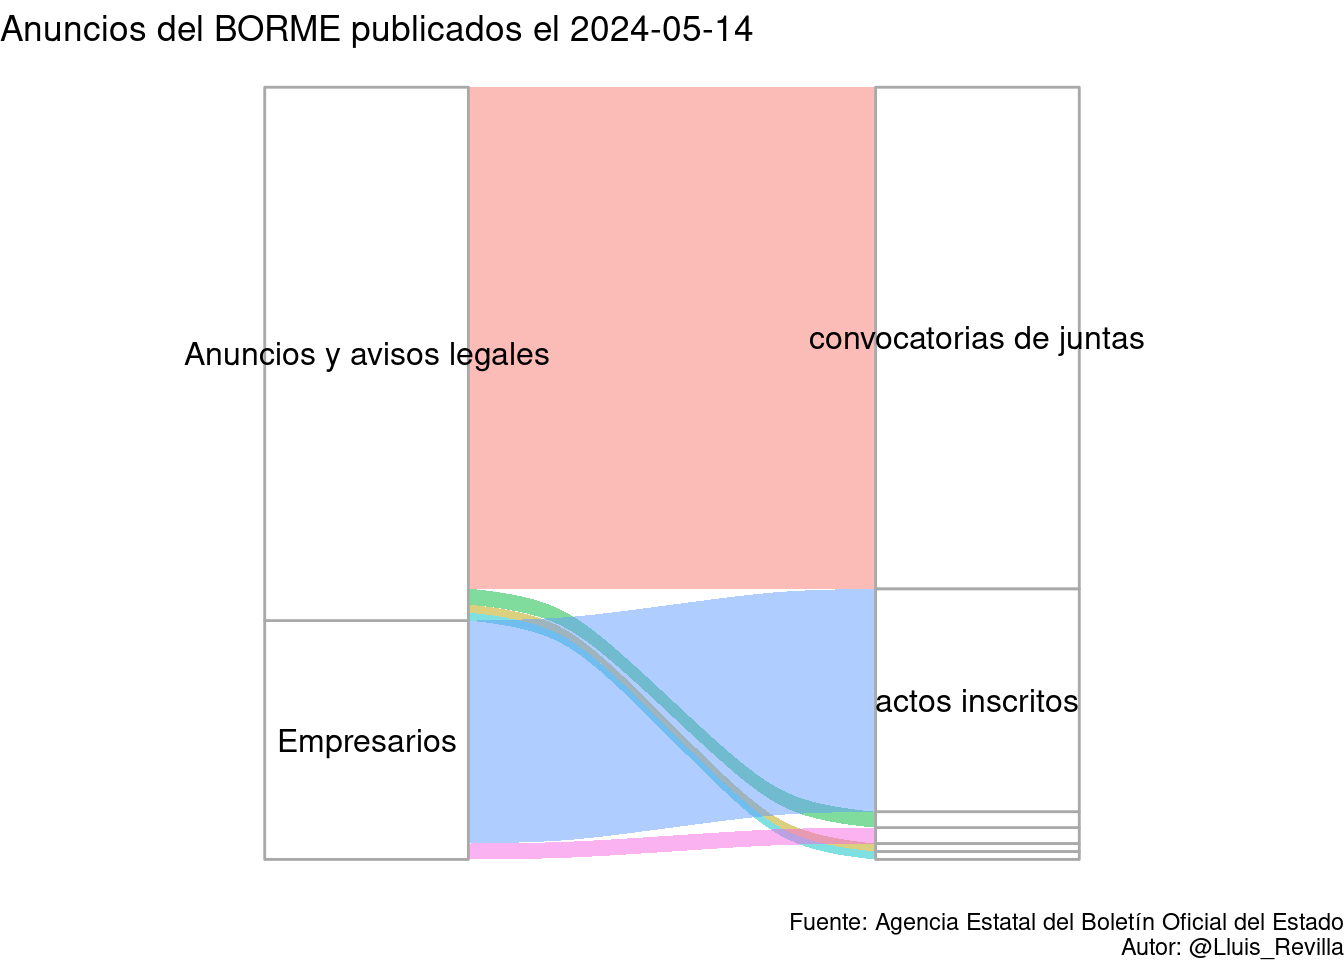
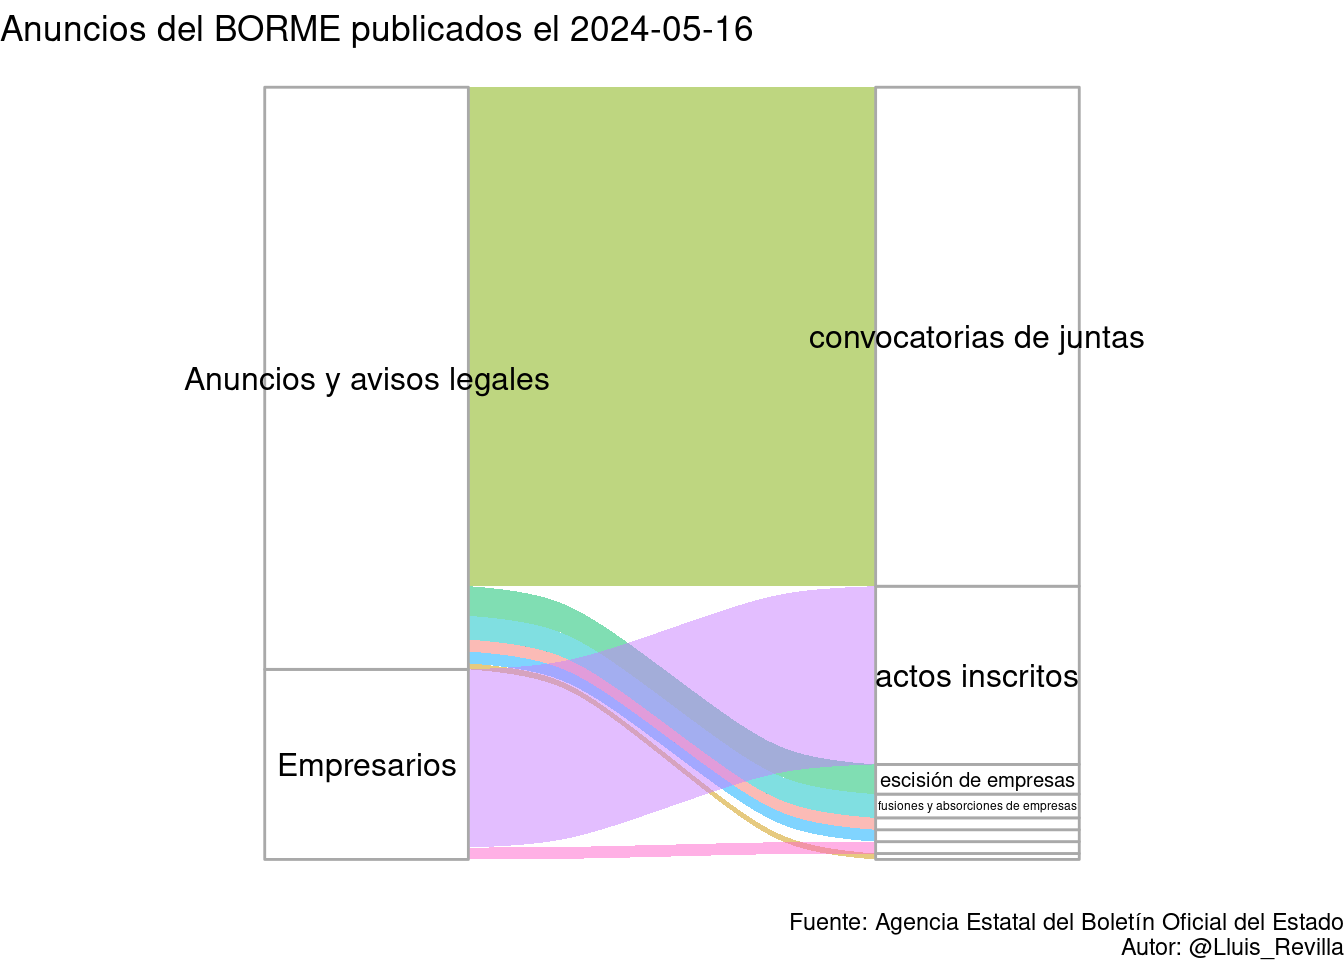
Update BORME

Changed region(s): [[0.125, 0.0938, 0.8125, 0.9062], [0.8125, 0.3438, 0.8438, 0.375], [0.5312, 0.0, 0.5625, 0.0312]]

diff --git a/docs/last_BORME.html b/docs/last_BORME.html
@@ -32,6 +32,18 @@
 <script src="site_libs/navigation-1.1/tabsets.js"></script>
 <link href="site_libs/highlightjs-9.12.0/default.css" rel="stylesheet" />
 <script src="site_libs/highlightjs-9.12.0/highlight.js"></script>
+<script src="site_libs/htmlwidgets-1.6.2/htmlwidgets.js"></script>
+<link href="site_libs/datatables-css-0.0.0/datatables-crosstalk.css" rel="stylesheet" />
+<script src="site_libs/datatables-binding-0.31/datatables.js"></script>
+<link href="site_libs/dt-core-1.13.6/css/jquery.dataTables.min.css" rel="stylesheet" />
+<link href="site_libs/dt-core-1.13.6/css/jquery.dataTables.extra.css" rel="stylesheet" />
+<script src="site_libs/dt-core-1.13.6/js/jquery.dataTables.min.js"></script>
+<link href="site_libs/nouislider-7.0.10/jquery.nouislider.min.css" rel="stylesheet" />
+<script src="site_libs/nouislider-7.0.10/jquery.nouislider.min.js"></script>
+<link href="site_libs/selectize-0.12.0/selectize.bootstrap3.css" rel="stylesheet" />
+<script src="site_libs/selectize-0.12.0/selectize.min.js"></script>
+<link href="site_libs/crosstalk-1.2.1/css/crosstalk.min.css" rel="stylesheet" />
+<script src="site_libs/crosstalk-1.2.1/js/crosstalk.min.js"></script>
 <link href="site_libs/font-awesome-6.4.2/css/all.min.css" rel="stylesheet" />
 <link href="site_libs/font-awesome-6.4.2/css/v4-shims.min.css" rel="stylesheet" />
 <script async src="https://www.googletagmanager.com/gtag/js?id=UA-57101844-6"></script>
@@ -365,7 +377,17 @@ $(document).ready(function () {
 </div>
 
 
-<p>Sorry tody I couldn’t retrieve the results</p>
+<div id="resumen-gráfico" class="section level1">
+<h1>Resumen gráfico</h1>
+<p>Esta página web contiene el último sumario del BORME publicado el 2024-05-16 con 130 publicaciones.</p>
+<p><img src="last_BORME_files/figure-html/graphics-1.png" width="672" /></p>
+</div>
+<div id="tabla-de-publicaciones" class="section level1">
+<h1>Tabla de publicaciones</h1>
+<p>Aquí está la tabla completa con enlaces a las publicaciones:</p>
+<div class="datatables html-widget html-fill-item-overflow-hidden html-fill-item" id="htmlwidget-9c0ff9466e9be3a55836" style="width:100%;height:auto;"></div>
+<script type="application/json" data-for="htmlwidget-9c0ff9466e9be3a55836">{"x":{"filter":"top","vertical":false,"filterHTML":"<tr>\n  <td><\/td>\n  <td data-type=\"character\" style=\"vertical-align: top;\">\n    <div class=\"form-group has-feedback\" style=\"margin-bottom: auto;\">\n      <input type=\"search\" placeholder=\"All\" class=\"form-control\" style=\"width: 100%;\"/>\n      <span class=\"glyphicon glyphicon-remove-circle form-control-feedback\"><\/span>\n    <\/div>\n  <\/td>\n  <td data-type=\"character\" style=\"vertical-align: top;\">\n    <div class=\"form-group has-feedback\" style=\"margin-bottom: auto;\">\n      <input type=\"search\" placeholder=\"All\" class=\"form-control\" style=\"width: 100%;\"/>\n      <span class=\"glyphicon glyphicon-remove-circle form-control-feedback\"><\/span>\n    <\/div>\n  <\/td>\n  <td data-type=\"character\" style=\"vertical-align: top;\">\n    <div class=\"form-group has-feedback\" style=\"margin-bottom: auto;\">\n      <input type=\"search\" placeholder=\"All\" class=\"form-control\" style=\"width: 100%;\" disabled=\"\"/>\n      <span class=\"glyphicon glyphicon-remove-circle form-control-feedback\"><\/span>\n    <\/div>\n  <\/td>\n  <td data-type=\"character\" style=\"vertical-align: top;\">\n    <div class=\"form-group has-feedback\" style=\"margin-bottom: auto;\">\n      <input type=\"search\" placeholder=\"All\" class=\"form-control\" style=\"width: 100%;\"/>\n      <span class=\"glyphicon glyphicon-remove-circle form-control-feedback\"><\/span>\n    <\/div>\n  <\/td>\n<\/tr>","data":[["1","2","3","4","5","6","7","8","9","10","11","12","13","14","15","16","17","18","19","20","21","22","23","24","25","26","27","28","29","30","31","32","33","34","35","36","37","38","39","40","41","42","43","44","45","46","47","48","49","50","51","52","53","54","55","56","57","58","59","60","61","62","63","64","65","66","67","68","69","70","71","72","73","74","75","76","77","78","79","80","81","82","83","84","85","86","87","88","89","90","91","92","93","94","95","96","97","98","99","100","101","102","103","104","105","106","107","108","109","110","111","112","113","114","115","116","117","118","119","120","121","122","123","124","125","126","127","128","129","130"],["SECCIÓN PRIMERA. Empresarios","SECCIÓN PRIMERA. Empresarios","SECCIÓN PRIMERA. Empresarios","SECCIÓN PRIMERA. Empresarios","SECCIÓN PRIMERA. Empresarios","SECCIÓN PRIMERA. Empresarios","SECCIÓN PRIMERA. Empresarios","SECCIÓN PRIMERA. Empresarios","SECCIÓN PRIMERA. Empresarios","SECCIÓN PRIMERA. Empresarios","SECCIÓN PRIMERA. Empresarios","SECCIÓN PRIMERA. Empresarios","SECCIÓN PRIMERA. Empresarios","SECCIÓN PRIMERA. Empresarios","SECCIÓN PRIMERA. Empresarios","SECCIÓN PRIMERA. Empresarios","SECCIÓN PRIMERA. Empresarios","SECCIÓN PRIMERA. Empresarios","SECCIÓN PRIMERA. Empresarios","SECCIÓN PRIMERA. Empresarios","SECCIÓN PRIMERA. Empresarios","SECCIÓN PRIMERA. Empresarios","SECCIÓN PRIMERA. Empresarios","SECCIÓN PRIMERA. Empresarios","SECCIÓN PRIMERA. Empresarios","SECCIÓN PRIMERA. Empresarios","SECCIÓN PRIMERA. Empresarios","SECCIÓN PRIMERA. Empresarios","SECCIÓN PRIMERA. Empresarios","SECCIÓN PRIMERA. Empresarios","SECCIÓN PRIMERA. Empresarios","SECCIÓN PRIMERA. Empresarios","SECCIÓN SEGUNDA. Anuncios y avisos legales","SECCIÓN SEGUNDA. Anuncios y avisos legales","SECCIÓN SEGUNDA. Anuncios y avisos legales","SECCIÓN SEGUNDA. Anuncios y avisos legales","SECCIÓN SEGUNDA. Anuncios y avisos legales","SECCIÓN SEGUNDA. Anuncios y avisos legales","SECCIÓN SEGUNDA. Anuncios y avisos legales","SECCIÓN SEGUNDA. Anuncios y avisos legales","SECCIÓN SEGUNDA. Anuncios y avisos legales","SECCIÓN SEGUNDA. Anuncios y avisos legales","SECCIÓN SEGUNDA. Anuncios y avisos legales","SECCIÓN SEGUNDA. Anuncios y avisos legales","SECCIÓN SEGUNDA. Anuncios y avisos legales","SECCIÓN SEGUNDA. Anuncios y avisos legales","SECCIÓN SEGUNDA. Anuncios y avisos legales","SECCIÓN SEGUNDA. Anuncios y avisos legales","SECCIÓN SEGUNDA. Anuncios y avisos legales","SECCIÓN SEGUNDA. Anuncios y avisos legales","SECCIÓN SEGUNDA. Anuncios y avisos legales","SECCIÓN SEGUNDA. Anuncios y avisos legales","SECCIÓN SEGUNDA. Anuncios y avisos legales","SECCIÓN SEGUNDA. Anuncios y avisos legales","SECCIÓN SEGUNDA. Anuncios y avisos legales","SECCIÓN SEGUNDA. Anuncios y avisos legales","SECCIÓN SEGUNDA. Anuncios y avisos legales","SECCIÓN SEGUNDA. Anuncios y avisos legales","SECCIÓN SEGUNDA. Anuncios y avisos legales","SECCIÓN SEGUNDA. Anuncios y avisos legales","SECCIÓN SEGUNDA. Anuncios y avisos legales","SECCIÓN SEGUNDA. Anuncios y avisos legales","SECCIÓN SEGUNDA. Anuncios y avisos legales","SECCIÓN SEGUNDA. Anuncios y avisos legales","SECCIÓN SEGUNDA. Anuncios y avisos legales","SECCIÓN SEGUNDA. Anuncios y avisos legales","SECCIÓN SEGUNDA. Anuncios y avisos legales","SECCIÓN SEGUNDA. Anuncios y avisos legales","SECCIÓN SEGUNDA. Anuncios y avisos legales","SECCIÓN SEGUNDA. Anuncios y avisos legales","SECCIÓN SEGUNDA. Anuncios y avisos legales","SECCIÓN SEGUNDA. Anuncios y avisos legales","SECCIÓN SEGUNDA. Anuncios y avisos legales","SECCIÓN SEGUNDA. Anuncios y avisos legales","SECCIÓN SEGUNDA. Anuncios y avisos legales","SECCIÓN SEGUNDA. Anuncios y avisos legales","SECCIÓN SEGUNDA. Anuncios y avisos legales","SECCIÓN SEGUNDA. Anuncios y avisos legales","SECCIÓN SEGUNDA. Anuncios y avisos legales","SECCIÓN SEGUNDA. Anuncios y avisos legales","SECCIÓN SEGUNDA. Anuncios y avisos legales","SECCIÓN SEGUNDA. Anuncios y avisos legales","SECCIÓN SEGUNDA. Anuncios y avisos legales","SECCIÓN SEGUNDA. Anuncios y avisos legales","SECCIÓN SEGUNDA. Anuncios y avisos legales","SECCIÓN SEGUNDA. Anuncios y avisos legales","SECCIÓN SEGUNDA. Anuncios y avisos legales","SECCIÓN SEGUNDA. Anuncios y avisos legales","SECCIÓN SEGUNDA. Anuncios y avisos legales","SECCIÓN SEGUNDA. Anuncios y avisos legales","SECCIÓN SEGUNDA. Anuncios y avisos legales","SECCIÓN SEGUNDA. Anuncios y avisos legales","SECCIÓN SEGUNDA. Anuncios y avisos legales","SECCIÓN SEGUNDA. Anuncios y avisos legales","SECCIÓN SEGUNDA. Anuncios y avisos legales","SECCIÓN SEGUNDA. Anuncios y avisos legales","SECCIÓN SEGUNDA. Anuncios y avisos legales","SECCIÓN SEGUNDA. Anuncios y avisos legales","SECCIÓN SEGUNDA. Anuncios y avisos legales","SECCIÓN SEGUNDA. Anuncios y avisos legales","SECCIÓN SEGUNDA. Anuncios y avisos legales","SECCIÓN SEGUNDA. Anuncios y avisos legales","SECCIÓN SEGUNDA. Anuncios y avisos legales","SECCIÓN SEGUNDA. Anuncios y avisos legales","SECCIÓN SEGUNDA. Anuncios y avisos legales","SECCIÓN SEGUNDA. Anuncios y avisos legales","SECCIÓN SEGUNDA. Anuncios y avisos legales","SECCIÓN SEGUNDA. Anuncios y avisos legales","SECCIÓN SEGUNDA. Anuncios y avisos legales","SECCIÓN SEGUNDA. Anuncios y avisos legales","SECCIÓN SEGUNDA. Anuncios y avisos legales","SECCIÓN SEGUNDA. Anuncios y avisos legales","SECCIÓN SEGUNDA. Anuncios y avisos legales","SECCIÓN SEGUNDA. Anuncios y avisos legales","SECCIÓN SEGUNDA. Anuncios y avisos legales","SECCIÓN SEGUNDA. Anuncios y avisos legales","SECCIÓN SEGUNDA. Anuncios y avisos legales","SECCIÓN SEGUNDA. Anuncios y avisos legales","SECCIÓN SEGUNDA. Anuncios y avisos legales","SECCIÓN SEGUNDA. Anuncios y avisos legales","SECCIÓN SEGUNDA. Anuncios y avisos legales","SECCIÓN SEGUNDA. Anuncios y avisos legales","SECCIÓN SEGUNDA. Anuncios y avisos legales","SECCIÓN SEGUNDA. Anuncios y avisos legales","SECCIÓN SEGUNDA. Anuncios y avisos legales","SECCIÓN SEGUNDA. Anuncios y avisos legales","SECCIÓN SEGUNDA. Anuncios y avisos legales","SECCIÓN SEGUNDA. Anuncios y avisos legales","SECCIÓN SEGUNDA. Anuncios y avisos legales","SECCIÓN SEGUNDA. Anuncios y avisos legales"],["Actos inscritos","Actos inscritos","Actos inscritos","Actos inscritos","Actos inscritos","Actos inscritos","Actos inscritos","Actos inscritos","Actos inscritos","Actos inscritos","Actos inscritos","Actos inscritos","Actos inscritos","Actos inscritos","Actos inscritos","Actos inscritos","Actos inscritos","Actos inscritos","Actos inscritos","Actos inscritos","Actos inscritos","Actos inscritos","Actos inscritos","Actos inscritos","Actos inscritos","Actos inscritos","Actos inscritos","Actos inscritos","Actos inscritos","Actos inscritos","Otros actos publicados en el Registro Mercantil","Otros actos publicados en el Registro Mercantil","BALANCES","CONVOCATORIAS DE JUNTAS","CONVOCATORIAS DE JUNTAS","CONVOCATORIAS DE JUNTAS","CONVOCATORIAS DE JUNTAS","CONVOCATORIAS DE JUNTAS","CONVOCATORIAS DE JUNTAS","CONVOCATORIAS DE JUNTAS","CONVOCATORIAS DE JUNTAS","CONVOCATORIAS DE JUNTAS","CONVOCATORIAS DE JUNTAS","CONVOCATORIAS DE JUNTAS","CONVOCATORIAS DE JUNTAS","CONVOCATORIAS DE JUNTAS","CONVOCATORIAS DE JUNTAS","CONVOCATORIAS DE JUNTAS","CONVOCATORIAS DE JUNTAS","CONVOCATORIAS DE JUNTAS","CONVOCATORIAS DE JUNTAS","CONVOCATORIAS DE JUNTAS","CONVOCATORIAS DE JUNTAS","CONVOCATORIAS DE JUNTAS","CONVOCATORIAS DE JUNTAS","CONVOCATORIAS DE JUNTAS","CONVOCATORIAS DE JUNTAS","CONVOCATORIAS DE JUNTAS","CONVOCATORIAS DE JUNTAS","CONVOCATORIAS DE JUNTAS","CONVOCATORIAS DE JUNTAS","CONVOCATORIAS DE JUNTAS","CONVOCATORIAS DE JUNTAS","CONVOCATORIAS DE JUNTAS","CONVOCATORIAS DE JUNTAS","CONVOCATORIAS DE JUNTAS","CONVOCATORIAS DE JUNTAS","CONVOCATORIAS DE JUNTAS","CONVOCATORIAS DE JUNTAS","CONVOCATORIAS DE JUNTAS","CONVOCATORIAS DE JUNTAS","CONVOCATORIAS DE JUNTAS","CONVOCATORIAS DE JUNTAS","CONVOCATORIAS DE JUNTAS","CONVOCATORIAS DE JUNTAS","CONVOCATORIAS DE JUNTAS","CONVOCATORIAS DE JUNTAS","CONVOCATORIAS DE JUNTAS","CONVOCATORIAS DE JUNTAS","CONVOCATORIAS DE JUNTAS","CONVOCATORIAS DE JUNTAS","CONVOCATORIAS DE JUNTAS","CONVOCATORIAS DE JUNTAS","CONVOCATORIAS DE JUNTAS","CONVOCATORIAS DE JUNTAS","CONVOCATORIAS DE JUNTAS","CONVOCATORIAS DE JUNTAS","CONVOCATORIAS DE JUNTAS","CONVOCATORIAS DE JUNTAS","CONVOCATORIAS DE JUNTAS","CONVOCATORIAS DE JUNTAS","CONVOCATORIAS DE JUNTAS","CONVOCATORIAS DE JUNTAS","CONVOCATORIAS DE JUNTAS","CONVOCATORIAS DE JUNTAS","CONVOCATORIAS DE JUNTAS","CONVOCATORIAS DE JUNTAS","CONVOCATORIAS DE JUNTAS","CONVOCATORIAS DE JUNTAS","CONVOCATORIAS DE JUNTAS","CONVOCATORIAS DE JUNTAS","CONVOCATORIAS DE JUNTAS","CONVOCATORIAS DE JUNTAS","CONVOCATORIAS DE JUNTAS","CONVOCATORIAS DE JUNTAS","CONVOCATORIAS DE JUNTAS","CONVOCATORIAS DE JUNTAS","CONVOCATORIAS DE JUNTAS","CONVOCATORIAS DE JUNTAS","CONVOCATORIAS DE JUNTAS","CONVOCATORIAS DE JUNTAS","CONVOCATORIAS DE JUNTAS","CONVOCATORIAS DE JUNTAS","CONVOCATORIAS DE JUNTAS","CONVOCATORIAS DE JUNTAS","CONVOCATORIAS DE JUNTAS","CONVOCATORIAS DE JUNTAS","FUSIONES Y ABSORCIONES DE EMPRESAS","FUSIONES Y ABSORCIONES DE EMPRESAS","FUSIONES Y ABSORCIONES DE EMPRESAS","FUSIONES Y ABSORCIONES DE EMPRESAS","ESCISIÓN DE EMPRESAS","ESCISIÓN DE EMPRESAS","ESCISIÓN DE EMPRESAS","ESCISIÓN DE EMPRESAS","ESCISIÓN DE EMPRESAS","AUMENTO DE CAPITAL","AUMENTO DE CAPITAL","REDUCCIÓN DE CAPITAL","REDUCCIÓN DE CAPITAL"],[null,null,null,null,null,null,null,null,null,null,null,null,null,null,null,null,null,null,null,null,null,null,null,null,null,null,null,null,null,null,null,null,null,null,null,null,null,null,null,null,null,null,null,null,null,null,null,null,null,null,null,null,null,null,null,null,null,null,null,null,null,null,null,null,null,null,null,null,null,null,null,null,null,null,null,null,null,null,null,null,null,null,null,null,null,null,null,null,null,null,null,null,null,null,null,null,null,null,null,null,null,null,null,null,null,null,null,null,null,null,null,null,null,null,null,null,null,null,null,null,null,null,null,null,null,null,null,null,null,null],["BORME-A-2024-93-03","BORME-A-2024-93-04","BORME-A-2024-93-06","BORME-A-2024-93-07","BORME-A-2024-93-08","BORME-A-2024-93-11","BORME-A-2024-93-12","BORME-A-2024-93-13","BORME-A-2024-93-15","BORME-A-2024-93-17","BORME-A-2024-93-18","BORME-A-2024-93-23","BORME-A-2024-93-24","BORME-A-2024-93-25","BORME-A-2024-93-26","BORME-A-2024-93-28","BORME-A-2024-93-29","BORME-A-2024-93-30","BORME-A-2024-93-33","BORME-A-2024-93-35","BORME-A-2024-93-36","BORME-A-2024-93-40","BORME-A-2024-93-41","BORME-A-2024-93-43","BORME-A-2024-93-45","BORME-A-2024-93-46","BORME-A-2024-93-47","BORME-A-2024-93-48","BORME-A-2024-93-50","BORME-A-2024-93-99","BORME-B-2024-93-08","BORME-B-2024-93-48","BORME-C-2024-2268","BORME-C-2024-2269","BORME-C-2024-2270","BORME-C-2024-2271","BORME-C-2024-2272","BORME-C-2024-2273","BORME-C-2024-2274","BORME-C-2024-2275","BORME-C-2024-2276","BORME-C-2024-2277","BORME-C-2024-2278","BORME-C-2024-2279","BORME-C-2024-2280","BORME-C-2024-2281","BORME-C-2024-2282","BORME-C-2024-2283","BORME-C-2024-2284","BORME-C-2024-2285","BORME-C-2024-2286","BORME-C-2024-2287","BORME-C-2024-2288","BORME-C-2024-2289","BORME-C-2024-2290","BORME-C-2024-2291","BORME-C-2024-2292","BORME-C-2024-2293","BORME-C-2024-2294","BORME-C-2024-2295","BORME-C-2024-2296","BORME-C-2024-2297","BORME-C-2024-2298","BORME-C-2024-2299","BORME-C-2024-2300","BORME-C-2024-2301","BORME-C-2024-2302","BORME-C-2024-2303","BORME-C-2024-2304","BORME-C-2024-2305","BORME-C-2024-2306","BORME-C-2024-2307","BORME-C-2024-2308","BORME-C-2024-2309","BORME-C-2024-2310","BORME-C-2024-2311","BORME-C-2024-2312","BORME-C-2024-2313","BORME-C-2024-2314","BORME-C-2024-2315","BORME-C-2024-2316","BORME-C-2024-2317","BORME-C-2024-2318","BORME-C-2024-2319","BORME-C-2024-2320","BORME-C-2024-2321","BORME-C-2024-2322","BORME-C-2024-2323","BORME-C-2024-2324","BORME-C-2024-2325","BORME-C-2024-2326","BORME-C-2024-2327","BORME-C-2024-2328","BORME-C-2024-2329","BORME-C-2024-2330","BORME-C-2024-2331","BORME-C-2024-2332","BORME-C-2024-2333","BORME-C-2024-2334","BORME-C-2024-2335","BORME-C-2024-2336","BORME-C-2024-2337","BORME-C-2024-2338","BORME-C-2024-2339","BORME-C-2024-2340","BORME-C-2024-2341","BORME-C-2024-2342","BORME-C-2024-2343","BORME-C-2024-2344","BORME-C-2024-2345","BORME-C-2024-2346","BORME-C-2024-2347","BORME-C-2024-2348","BORME-C-2024-2349","BORME-C-2024-2350","BORME-C-2024-2351","BORME-C-2024-2352","BORME-C-2024-2353","BORME-C-2024-2354","BORME-C-2024-2355","BORME-C-2024-2356","BORME-C-2024-2357","BORME-C-2024-2358","BORME-C-2024-2359","BORME-C-2024-2360","BORME-C-2024-2361","BORME-C-2024-2362","BORME-C-2024-2363","BORME-C-2024-2364","BORME-C-2024-2365"]],"container":"<table class=\"display\">\n  <thead>\n    <tr>\n      <th> <\/th>\n      <th>Sección<\/th>\n      <th>Emisor<\/th>\n      <th>Texto<\/th>\n      <th>Link<\/th>\n    <\/tr>\n  <\/thead>\n<\/table>","options":{"pageLength":10,"autoWidth":true,"columnDefs":[{"orderable":false,"targets":0},{"name":" ","targets":0},{"name":"Sección","targets":1},{"name":"Emisor","targets":2},{"name":"Texto","targets":3},{"name":"Link","targets":4}],"order":[],"orderClasses":false,"orderCellsTop":true}},"evals":[],"jsHooks":[]}</script>
+</div>
 
 
 
